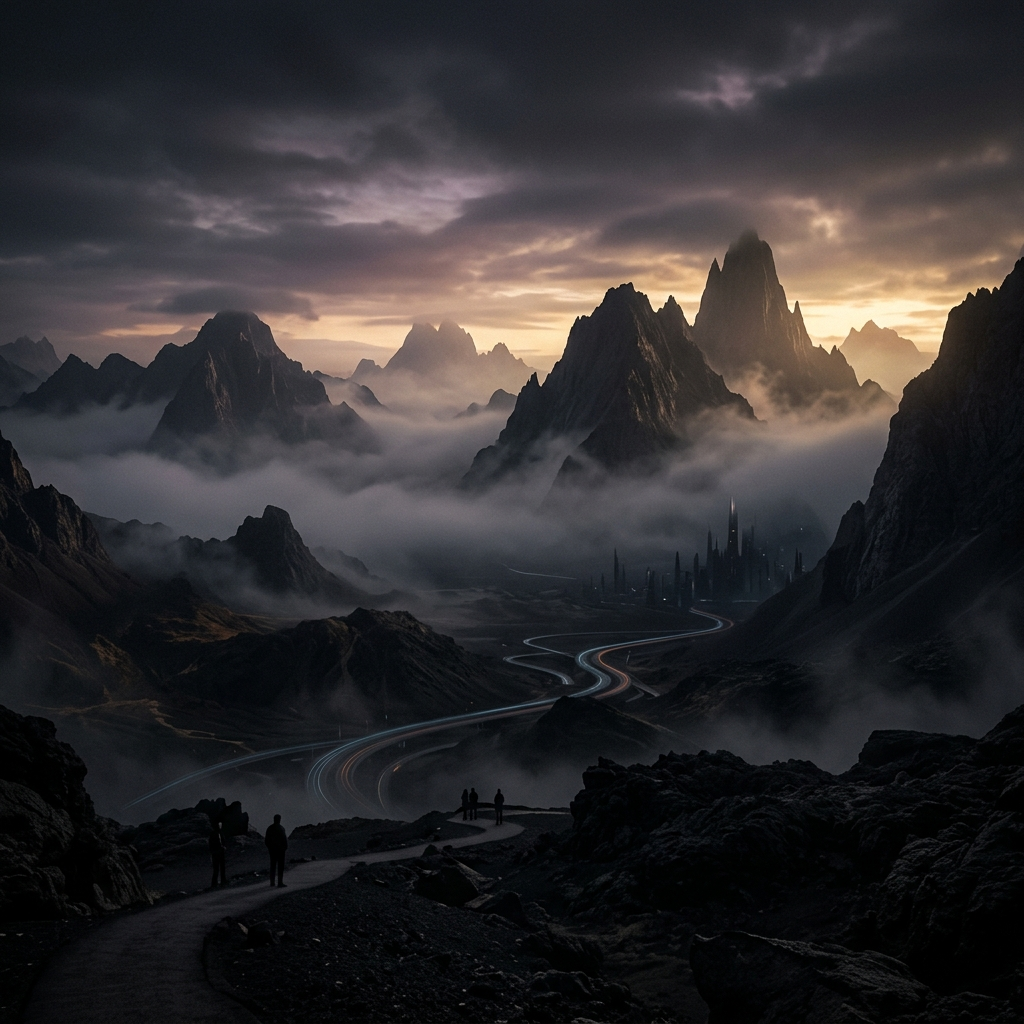
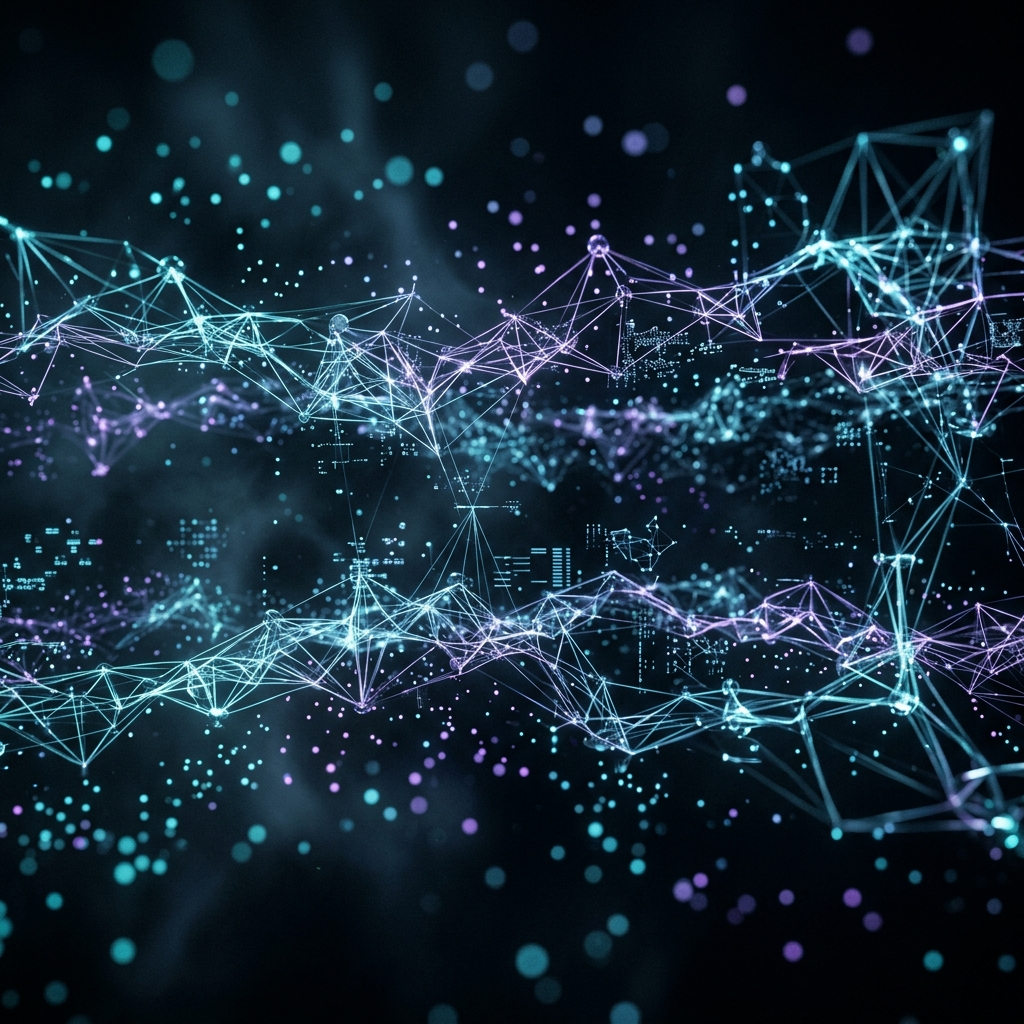
version 2

diff --git a/src/components/sections/RachelAI.tsx b/src/components/sections/RachelAI.tsx
@@ -2,11 +2,18 @@
 
 import { motion } from "framer-motion";
 import { Mic, Volume2, ShieldCheck, Zap } from "lucide-react";
-import { useMemo } from "react";
+import { useMemo, useState, useEffect } from "react";
 
 function NeuralParticle({ index }: { index: number }) {
+  const [mounted, setMounted] = useState(false);
+  
+  useEffect(() => {
+    setMounted(true);
+  }, []);
+
   // Generate random base parameters
   const randomParams = useMemo(() => {
+    if (!mounted) return null;
     const angle = (index / 100) * Math.PI * 2;
     const baseRadius = 30 + Math.random() * 120;
     return {
@@ -18,7 +25,9 @@ function NeuralParticle({ index }: { index: number }) {
       opacity: 0.1 + Math.random() * 0.5,  // Randomized base opacity
       scaleRange: 1.2 + Math.random() * 0.8, // Randomized scale range
     };
-  }, [index]);
+  }, [index, mounted]);
+
+  if (!mounted || !randomParams) return null;
 
   return (
     <motion.div

diff --git a/src/components/sections/Hero.tsx b/src/components/sections/Hero.tsx
@@ -25,8 +25,8 @@ export default function Hero() {
           animate={{ y: 0, opacity: 1 }}
           transition={{ duration: 1, ease: [0.22, 1, 0.36, 1] }}
         >
-          <h1 className="text-4xl sm:text-6xl md:text-8xl font-bold tracking-tight mb-8 text-gradient">
-            The AI platform for <br />
+          <h1 className="text-4xl sm:text-6xl md:text-8xl font-bold tracking-tight mb-8 leading-[1.1]">
+            <span className="text-white/40">The AI platform for</span> <br />
             <span className="text-white">human intelligence</span>
           </h1>
 

diff --git a/src/components/sections/CinematicReveal.tsx b/src/components/sections/CinematicReveal.tsx
@@ -27,7 +27,7 @@ export default function CinematicReveal() {
           className="relative w-full h-full"
         >
           <Image
-            src="/images/hero-bg.png" // Using existing hero bg for now, ideally an aerial shot
+            src="/images/nature-bg.png"
             alt="Cinematic Reveal"
             fill
             className="object-cover brightness-75"